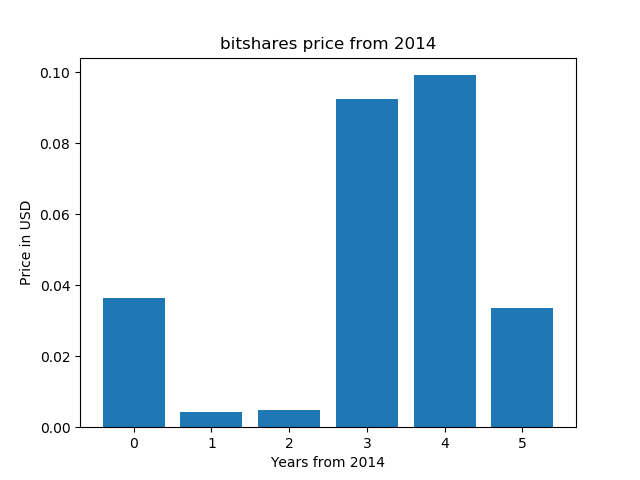
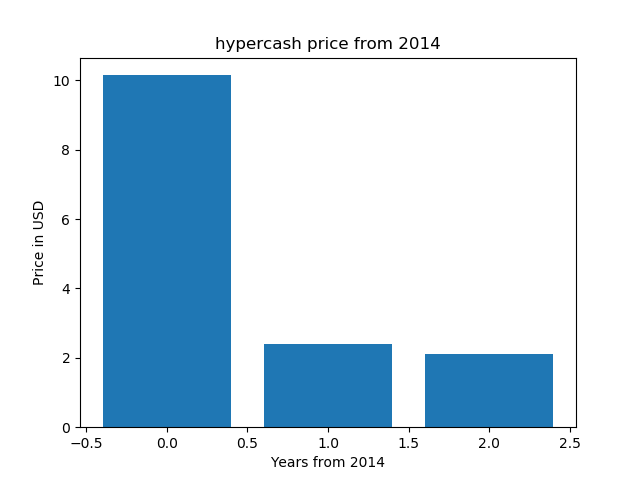
first commit

diff --git a/example.py b/example.py
@@ -10,7 +10,7 @@ from time import gmtime, strftime
 import matplotlib.pyplot as plt
 
 enddate = strftime("%Y%m%d", gmtime())
-r  = requests.get("https://coinmarketcap.com/currencies/bitshares/historical-data/?start=20140101&end={0}".format(enddate))
+r  = requests.get("https://coinmarketcap.com/currencies/hypercash/historical-data/?start=20140101&end={0}".format(enddate))
 data = r.text
 
 soup = BeautifulSoup(data, "html.parser")
@@ -44,7 +44,7 @@ print(x)
 
 x = list(range(0, len(prices)))
 
-plt.title('bitshares price from 2014')
+plt.title('hypercash price from 2014')
 plt.ylabel('Price in USD')
 plt.xlabel('Years from 2014')
 plt.bar(x, prices)

diff --git a/README.md b/README.md
@@ -1,6 +1,6 @@
-# bitshares price chart 
+# hypercash price chart 
 
-bitshares price chart (matplotlib, python)
+hypercash price chart (matplotlib, python)
 
 https://pythonprogramminglanguage.com
 
